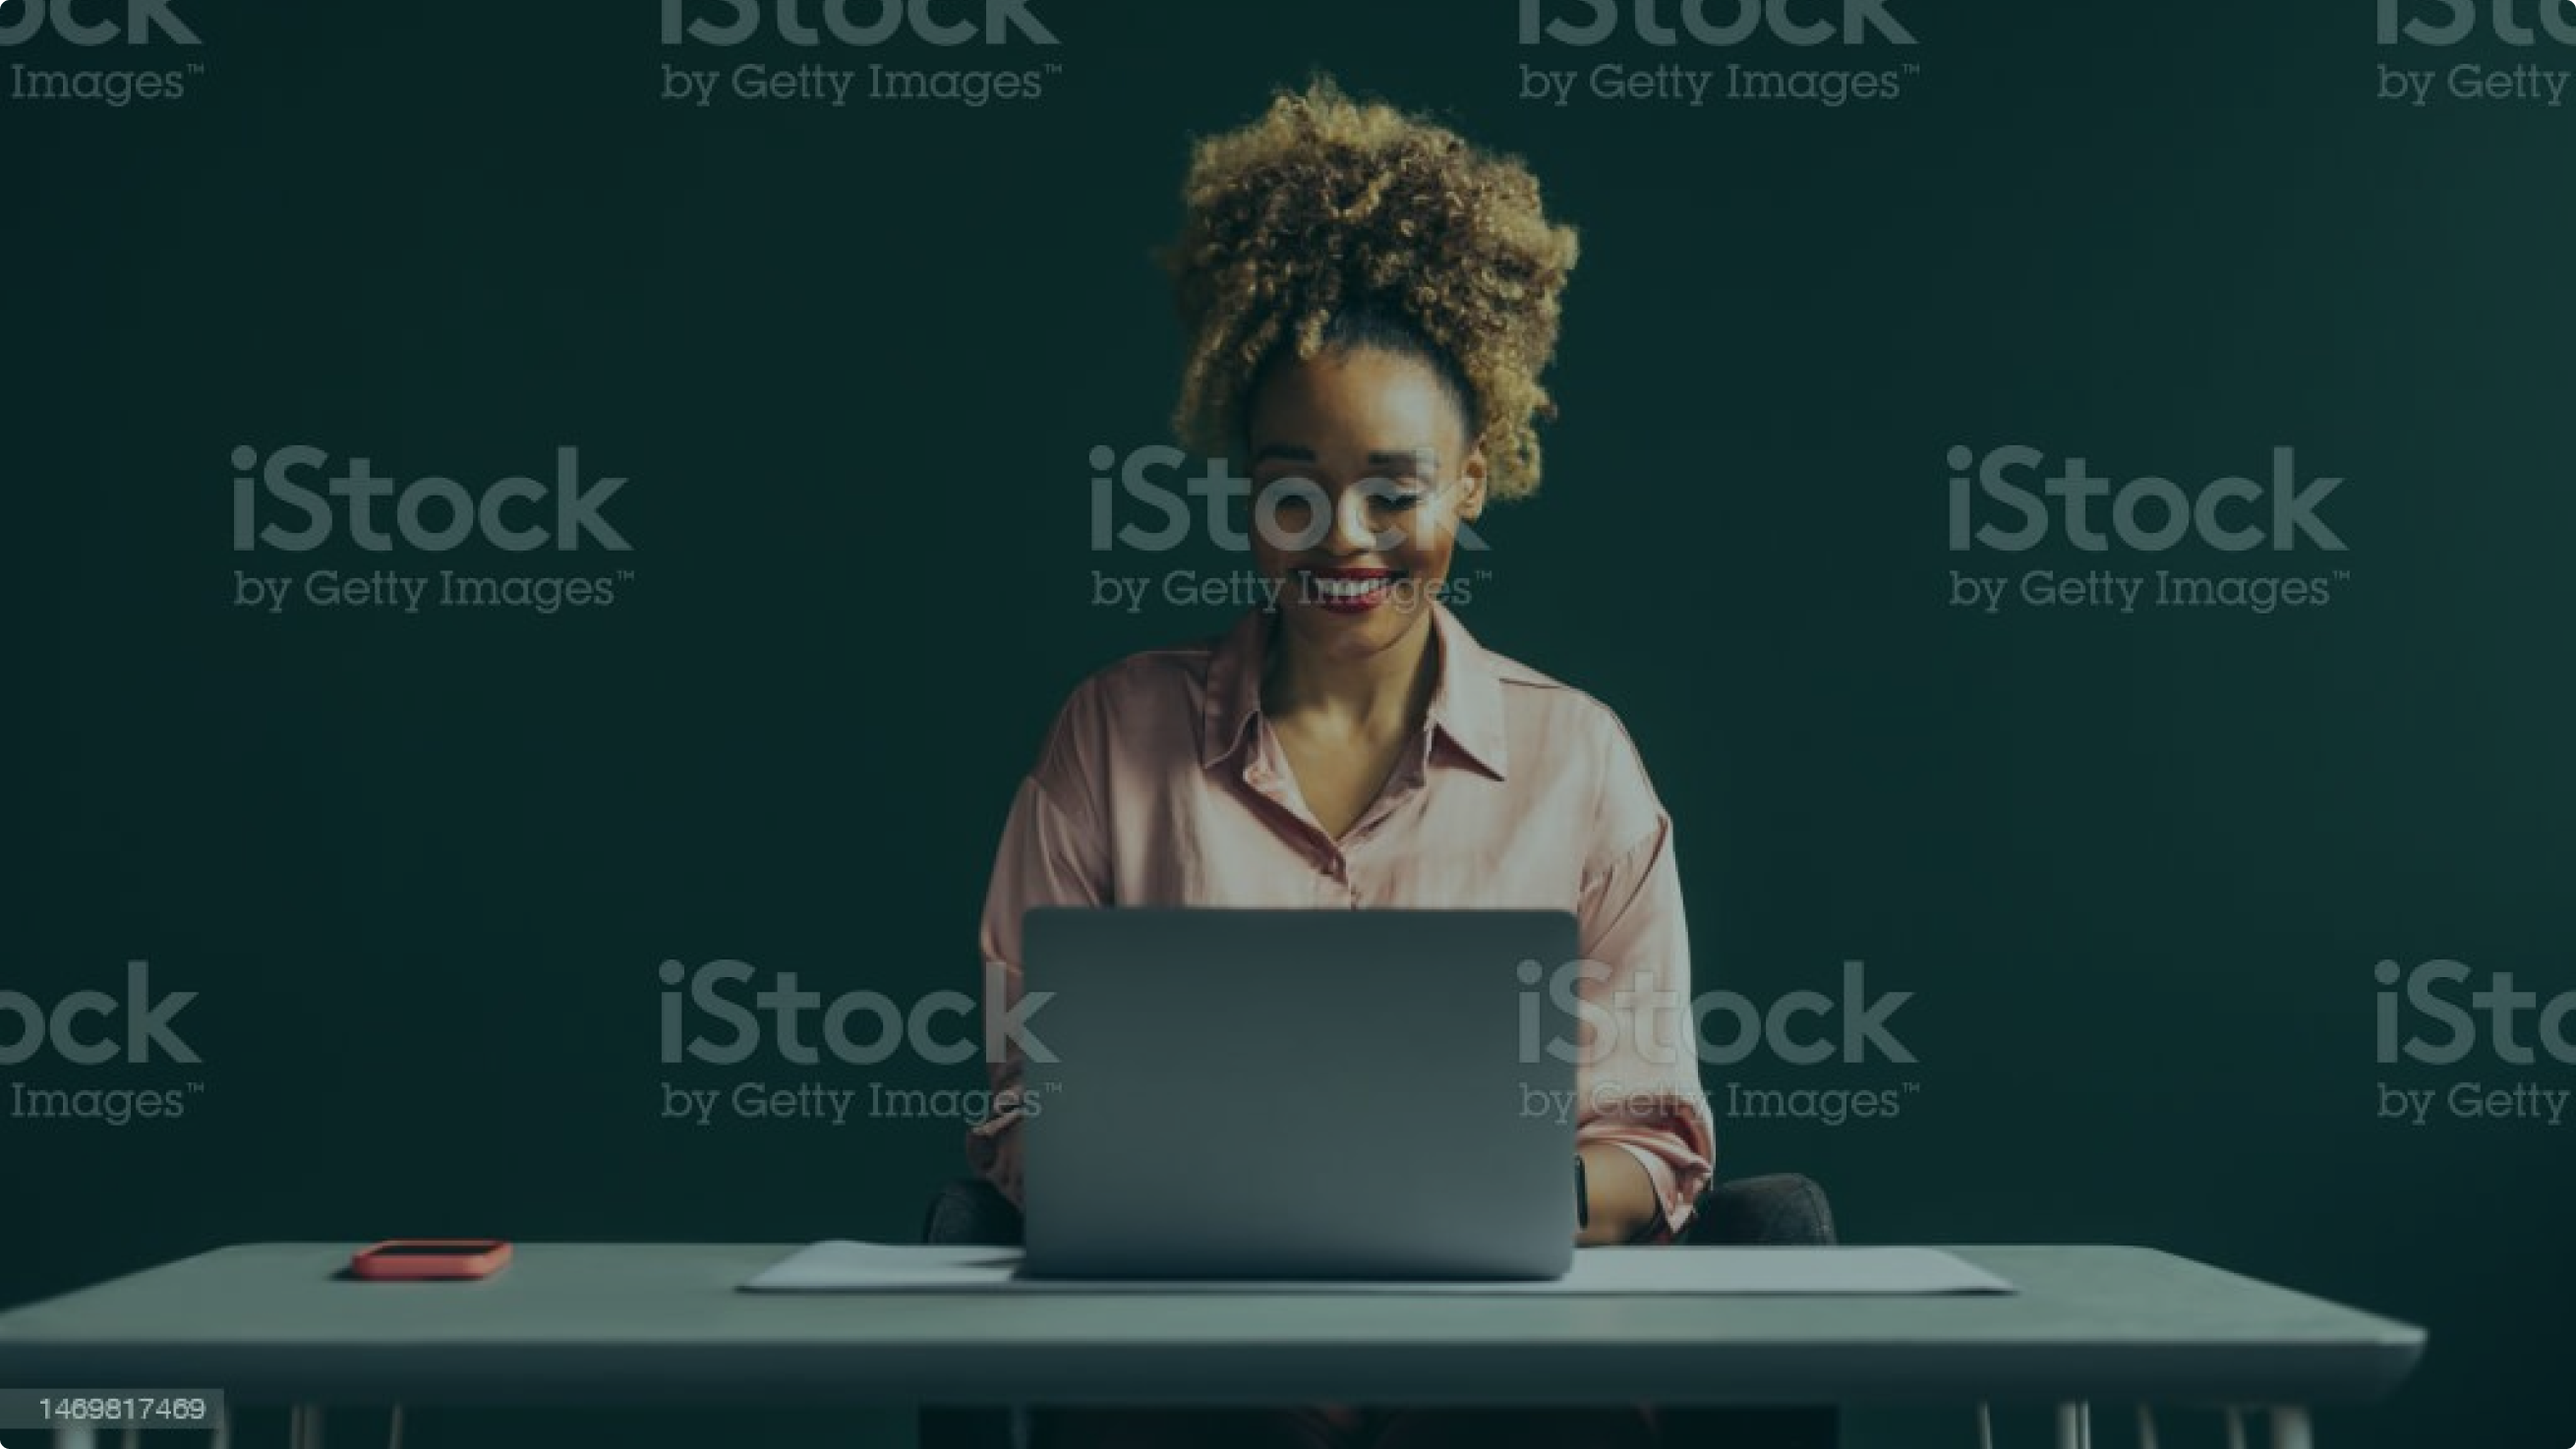
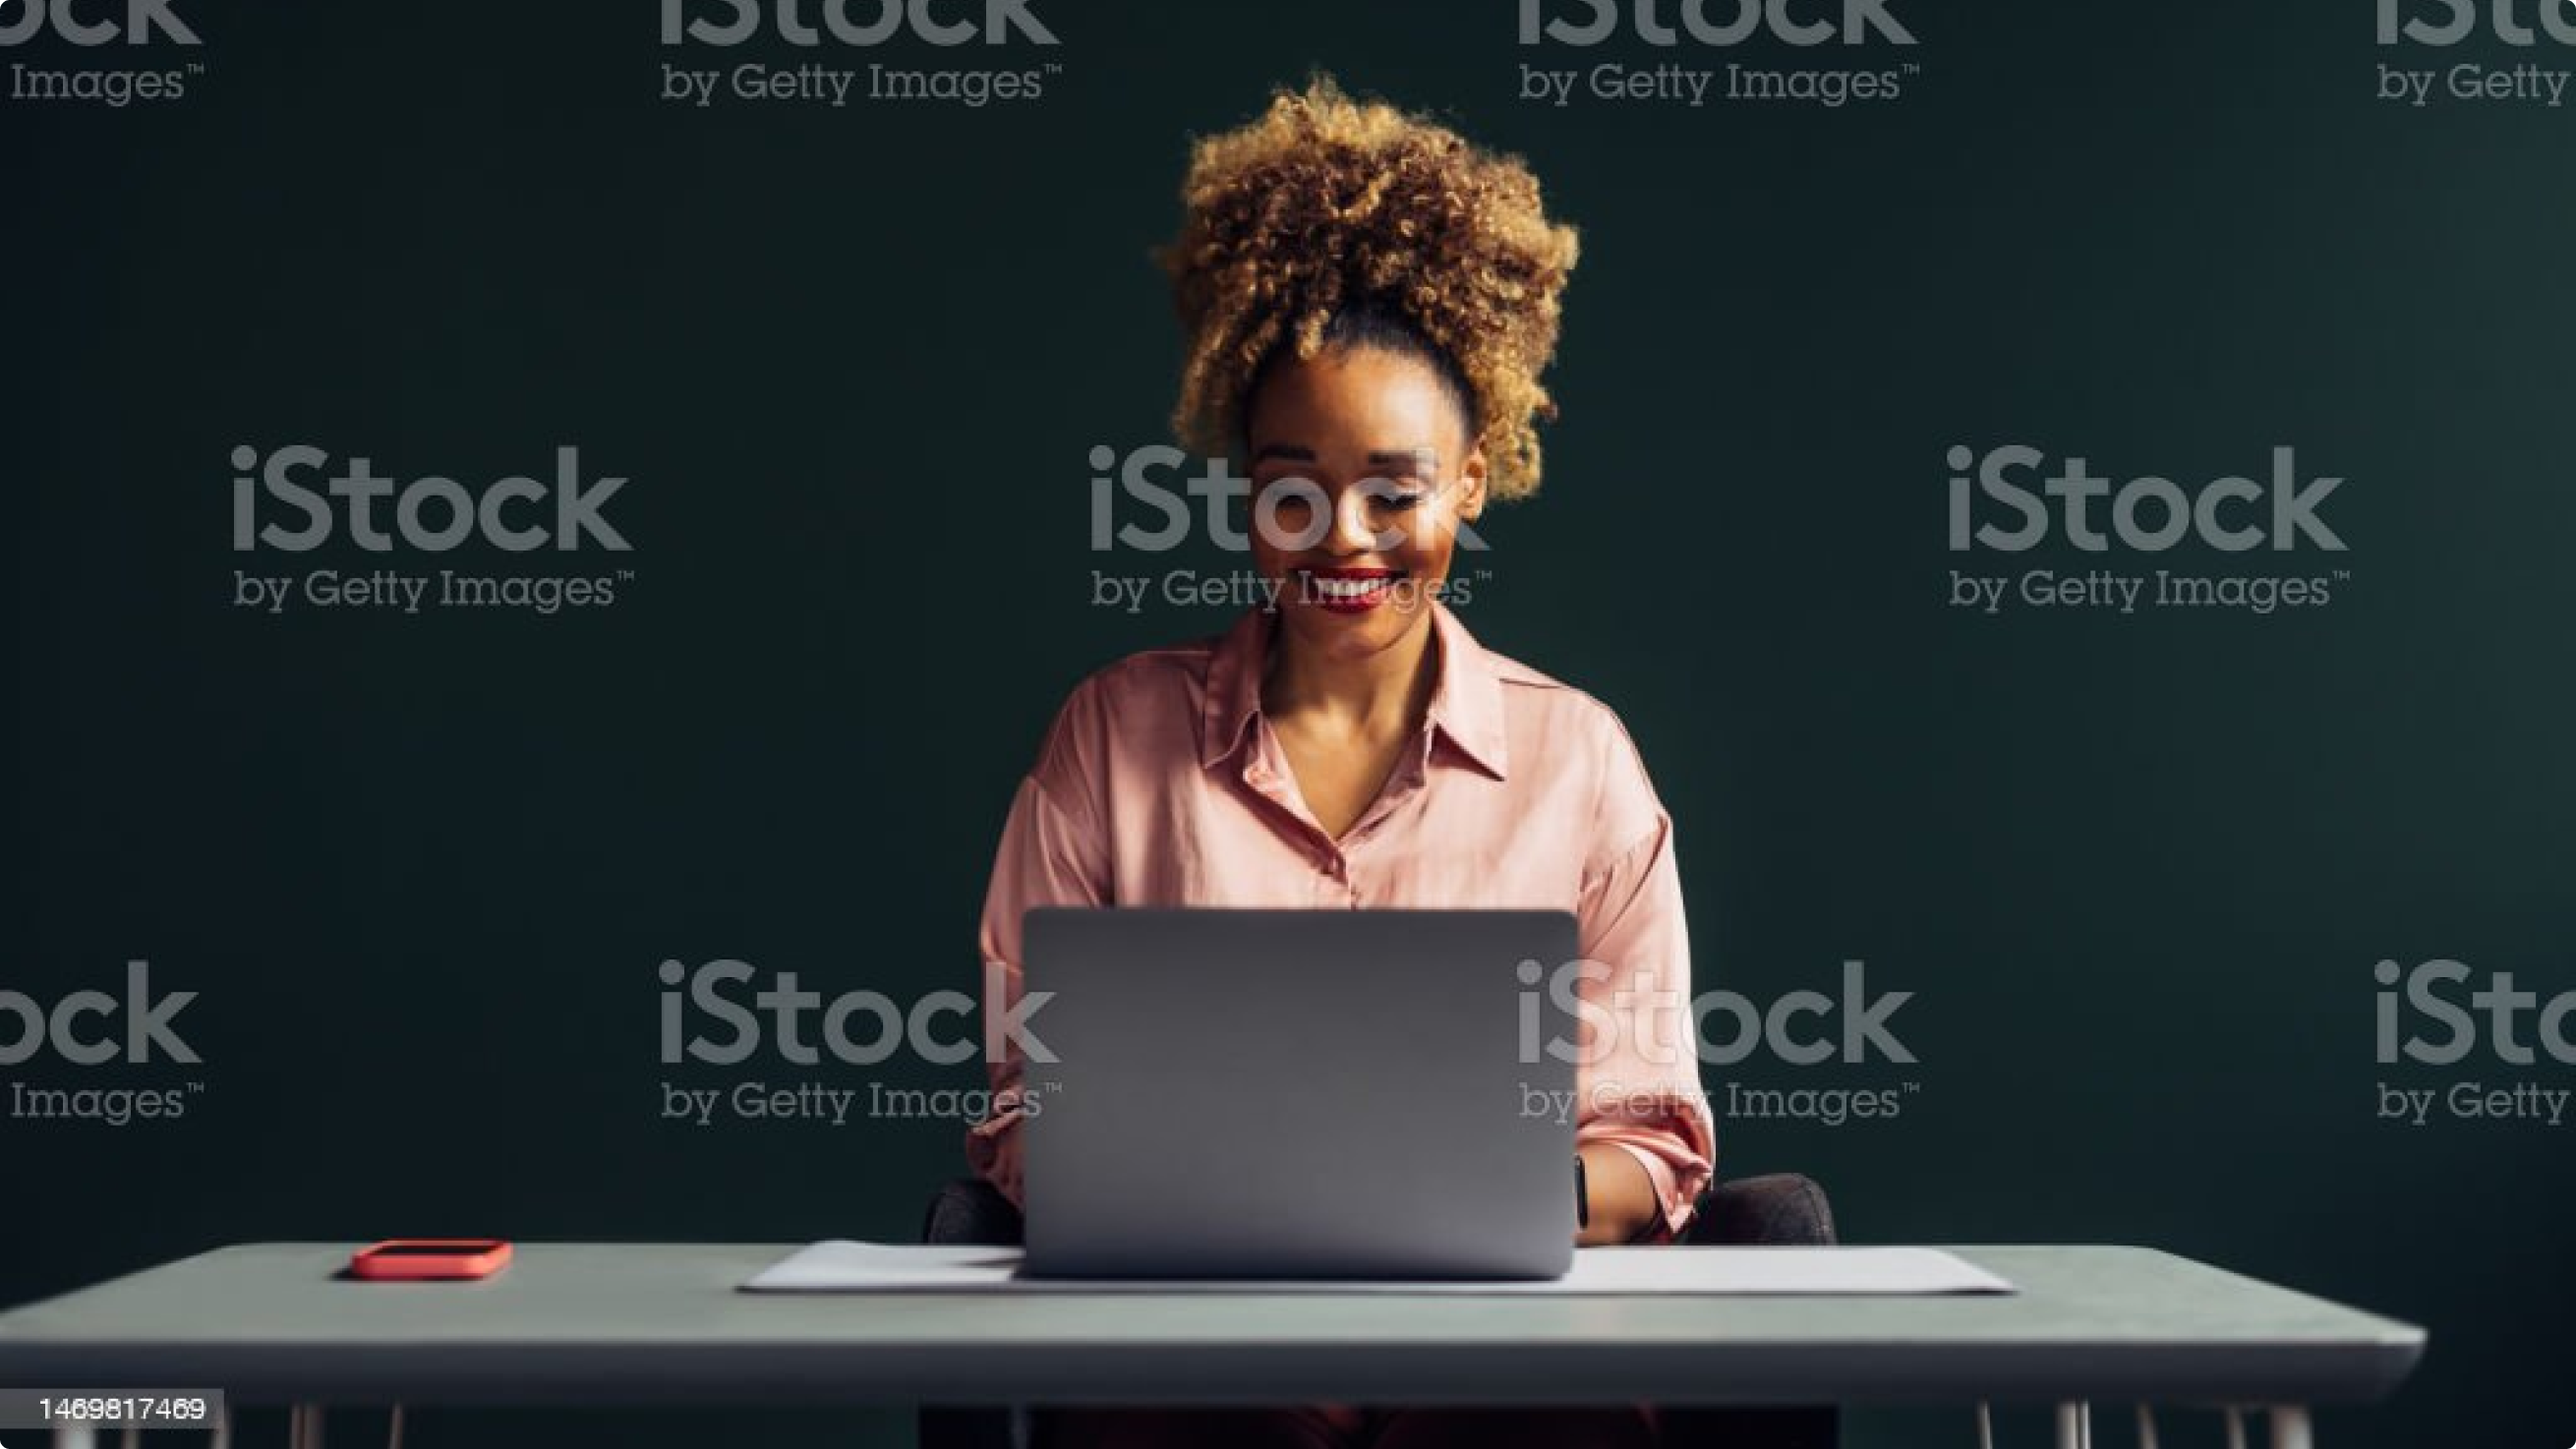
Article image improvement

diff --git a/src/app/blog/article-thumb/article-thumb.component.scss b/src/app/blog/article-thumb/article-thumb.component.scss
@@ -20,7 +20,7 @@
             // overflow: hidden;
         }
 
-        .entry-thumb--hero--overlay,
+        // .entry-thumb--hero--overlay,
         .entry-thumb__txtwrapper {
             position: absolute;
             bottom: 0;
@@ -47,11 +47,12 @@
             fill: var(--enjanga-clr-article-thumb-hero-title);
         }
     }
-    .entry-thumb--hero--overlay {
-        width: 100%;
-        height: 100%;
-        z-index: 1;
-    }
+    // .entry-thumb--hero--overlay {
+    //     display: none;
+    //     width: 100%;
+    //     height: 100%;
+    //     z-index: 1;
+    // }
     .entry-thumb--hero--imgframe {
         display: block;
         background-size: cover;

diff --git a/src/app/blog/article-thumb/article-thumb.component.html b/src/app/blog/article-thumb/article-thumb.component.html
@@ -11,7 +11,7 @@
             </header>
             <p *ngIf="text!==''" appFadeInSection class="entry__text">{{text}}</p>
         </div>
-        <div *ngIf="isHero" class="entry-thumb--hero--overlay"></div>
+        <!-- <div *ngIf="isHero" class="entry-thumb--hero--overlay"></div> -->
         <span *ngIf="isHero" class="entry-thumb--hero--imgframe" [style.background-image]="'url('+img+')'"></span>
     </a>
 </article>
